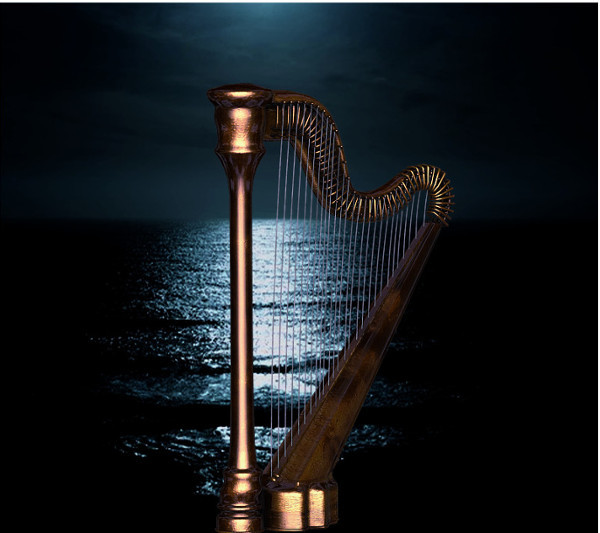
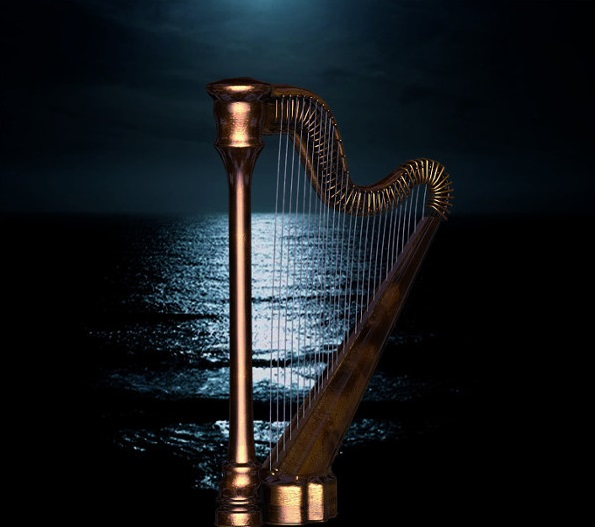
I've been setting the layout and appereance of elements

Changed region(s): [[0.2118, 0.1214, 0.7563, 1.0], [0.0, 0.0, 1.0, 1.0], [0.5748, 0.7894, 0.6353, 0.8501]]

diff --git a/index.html b/index.html
@@ -10,26 +10,27 @@
       <link rel="stylesheet" href="css/base.css">
       <link rel="stylesheet" href="css/layout.css">
       <link rel="stylesheet" href="css/components.css">
-    <title>My own page about celtic harps</title>
+    
+      <title>My own page about celtic harps</title>
 </head>
 <body>
   <div class="container">
     <div class="item navbar">
-      <span class="button home">Home</span>
-      <span class="button wikipedia">Wikipedia</span>
-      <span class="button camac">Camac Harps</span>
-      <span class="button facebook">Facebook</span>
-      <span class="search button"><input type="text" name="searching"> <label for="searching">Search</label></span>
+      <span class="btn btn-primary home">Home</span>
+      <span class="btn btn-default wikipedia">Wikipedia</span>
+      <span class="btn btn-danger camac">Camac Harps</span>
+      <span class="btn btn-info facebook">Facebook</span>
+      <span class="search btn btn-success"><input type="text" name="searching"> <label for="searching">Search</label></span>
     </div>
     <div class="item header">
-      <h1>A kelta hárfa világa</h1>
-      <h2>Szeretettel köszöntelek a gyönyörű kelta / kampós / ír népi hárfák világában!</h2>
-      <h3>Időzz el a zene, a képek és az izgalmas leírások világában!</h3>
+      <div><h1>A kelta hárfa világa</h1></div>
+      <div><h2>Szeretettel köszöntelek a gyönyörű kelta / kampós / ír népi hárfák világában!</h2></div>
+      <div><h3>Időzz el a zene, a képek és az izgalmas leírások világában!</h3></div>
     </div>
     <div class="item sidebar-left">
-      <div class="logo-image-wrapper"><img class="img-responsive img-rounded logo-image" src="/files/design-harp.jpg" alt="a very artistic wooden harp"></div>
+      <img class="img-responsive img-rounded logo-image" src="/files/design-harp.jpg" alt="a very artistic wooden harp">
       <div class="composers">
-        <h2>Zeneszerzők:</h2>
+        <h3>Zeneszerzők:</h3>
         <ul>
           <li><a href="">Marcel Grandjany</a></li>
           <li><a href="">Annie Channan</a></li>
@@ -37,20 +38,19 @@
         </ul>
       </div>
       <div class="Musicians">
-        <h2>Hárfaművészek:</h2>
+        <h3>Hárfaművészek:</h3>
         <ul>
           <li><a href="">Edmar Castenada</a></li>
           <li><a href="">Gulyás Csilla</a></li>
           <li><a href=""></a>Alizbar</li>
         </ul>
-      </div>
+        </div>
     </div>
     <div class="item main-content">
       <p>A hárfa húros, pengetős hangszer. Jellegzetessége, hogy húrozatának síkja merőleges a húrok rezgését hangként kisugárzó hangszertetőre. A húrok a hangolásuknak megfelelően különböző hosszúságúak, emiatt a hárfák körvonala gyakran háromszöghöz hasonló. A húrok a hárfa teste és hozzá csatlakozó nyaka között feszülnek, ezek végeit egy harmadik elem, az oszlop kötheti össze. Felépítése alapján a hárfa lehet ívhárfa vagy szöghárfa, ha oszlopa is van, kerethárfa.</p>
       <p>A hárfát vagy az egyik, vagy mindkét kéz ujjaival pengetik.</p> 
       <p>A hárfa az egyik legősibb húros hangszer, az ókori kelet legfontosabb húros hangszere a líra mellett. Fejlett változata, a pedálhárfa a nyugati klasszikus zene, a szimfonikus zenekarok egyetlen rendszeresen használt pengetős hangszere. Ezeknél a pedálok használatával a diatonikus hangolású húrok hangmagasságát egy vagy két fokozatban félhanggal módosítani lehet, így a kromatikus hangok is elérhetőek.</p> 
       <p>A hárfa a nyugati kultúrában különösen gazdag szimbolikus összefüggésekben: a középkor óta Dávid király és Orpheusz attribútuma.[</p>
-      <div class="embed-responsive embed-responsive-16by9"><iframe src="https://www.youtube.com/embed/AnpiXdZw66w" class="embed-responsive-item" frameborder="0" allow="accelerometer; autoplay; clipboard-write; encrypted-media; gyroscope; picture-in-picture" allowfullscreen></iframe>Edmar: Jesus of Nazareth</iframe></div>
     </div>
     <div class="item sidebar-right">
       <span class="image-wrapper"><img class="img-responsive" src="files/ancient.jpg" alt="Ancient harp player"></span>
@@ -62,10 +62,10 @@
     </div>
     <div class="item footer">
       <p class="footnote">Ez az oldal kódolási gyakorlás céljából készült. Ha tetszenek a munkáim, keressen bátran, hogy elkészíthessem az Ön honlapját is!</p>
-      <span class="button contact-mail"><a href=""> Gmail</a></span>  
-      <span class="button contact-number"><a href="">Number</a></span>
-      <span class="button contact-facebook"><a href="">Facebook</a></span>
-      <span class="button contact-linkedin">LinkedIn</span>
+      <span class="btn btn-danger btn-md contact-mail"><a href=""> Gmail</a></span>  
+      <span class="btn btn-success contact-number"><a href="">Number</a></span>
+      <span class="btn btn-primary contact-facebook"><a href="">Facebook</a></span>
+      <span class="btn btn-default contact-linkedin">LinkedIn</span>
 
     </div>
   </div>

diff --git a/css/layout.css b/css/layout.css
@@ -13,13 +13,11 @@
 
 .container {
   display: grid;
-  width: 100vw;
   grid-template-columns: 15% auto 20%;
-  grid-template-rows:    5em 10em auto 5em 5em;
+  grid-template-rows:    5em 18em auto 6em;
   grid-template-areas:   "navbar navbar navbar"
                          "sidebar-left header header"
                          "sidebar-left main-content sidebar-right"
-                         "sidebar-left main-content ."
                          "footer footer footer";
  grid-gap:               0px;
 }
@@ -37,11 +35,12 @@
     grid-area: header;
 }
 
+
 .main-content {
     grid-area: main-content;
 }
 
-.sidebar-right{
+.sidebar-right {
     grid-area: sidebar-right;
 }
 
@@ -57,7 +56,28 @@
 \*------------------------*/
 
 .navbar {
-    display: flex;
+    display:         flex;
     justify-content: flex-end;
-    align-items: center;
+    align-items:     center;
+}
+
+.sidebar-left {
+    display:        flex;
+    flex-direction: column;
+}
+
+.header {
+    display:        flex;
+    flex-direction: column;
+}
+
+.sidebar-right {
+    display:        flex;
+    flex-direction: column;
+}
+
+.footer {
+        display:         flex;
+        flex-direction:  row;
+        justify-content: center;
 }

diff --git a/css/components.css b/css/components.css
@@ -12,7 +12,7 @@
 /*------------------------*\
   #NAVBAR-STYLES
 \*------------------------*/
-.button {
+.btn {
     margin: 0 2em;
 }
 
@@ -24,8 +24,13 @@
 /*------------------------*\
   #HEADER-STYLES
 \*------------------------*/
+.header {
+  padding-bottom: 2em;
+}
 
-
+.header div {
+  text-align: center;
+}
 
 
 /*------------------------*\
@@ -37,15 +42,10 @@
 }
 
 
-
 /*------------------------*\
   #SIDEBAR-LEFT-STYLES
 \*------------------------*/
 
-.logo-image {
-    width: 10%;
-    padding: 1em;
-}
 
 
 
@@ -53,7 +53,13 @@
   #SIDEBAR-RIGHT-STYLES
 \*------------------------*/
 
+.sidebar-right img {
+  width: 80%;
+}
 
+.img-wrapper {
+  margin-bottom: 2em;
+}
 
 
 /*------------------------*\

diff --git a/css/base.css b/css/base.css
@@ -18,11 +18,20 @@
   #MAIN AREAS
 \*------------------------*/
 
+.container {
+    width: 102vw;
+    margin-left: -1.1em;
+}
+
+
 .item {
     padding: 2em 3em;
 }
+
+
 .navbar {
     background-color: blanchedalmond;
+    padding-bottom: 3em;
 }
 
 .sidebar-left {
@@ -34,7 +43,10 @@
 }
 
 .main-content {
-    background-image: url(/files/harp.jpg);
+    background-image:    url(/files/harp.jpg);
+    background-repeat:   no-repeat;
+    background-size:     cover;
+    background-position: center;
 }
 
 .sidebar-right{
